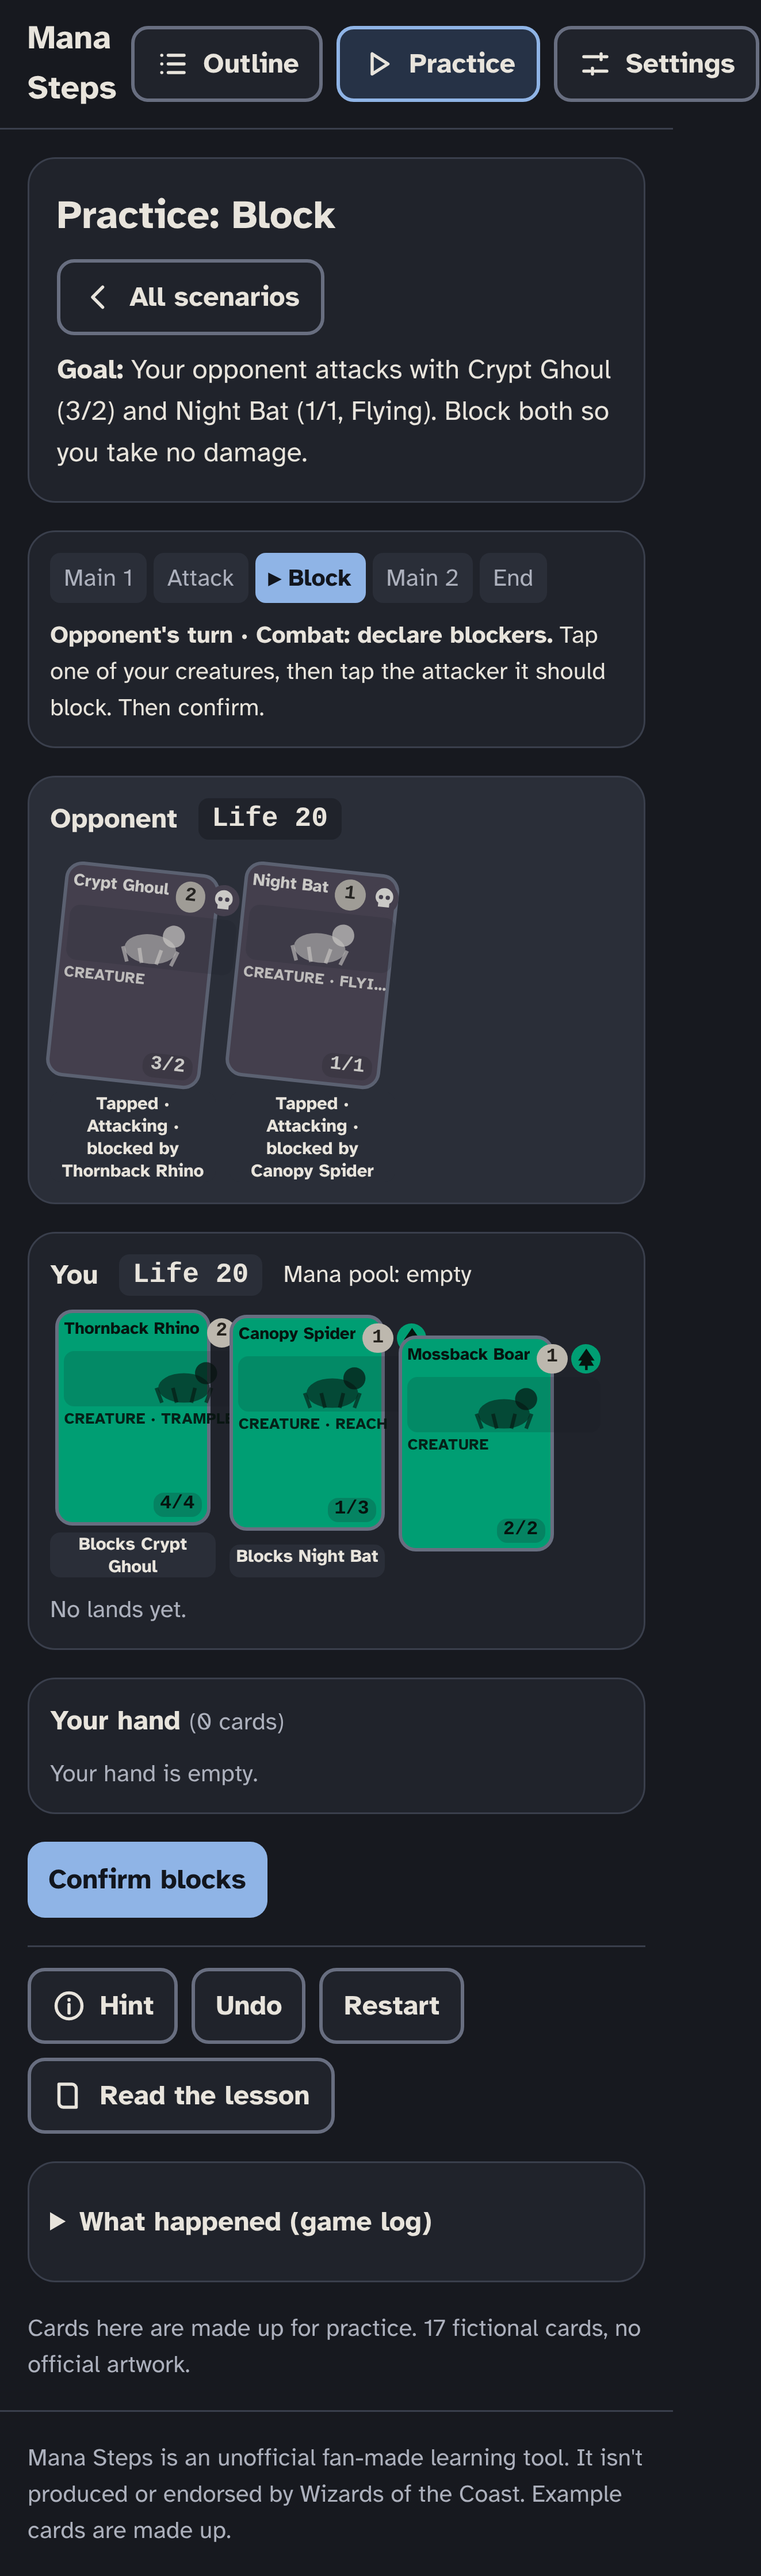
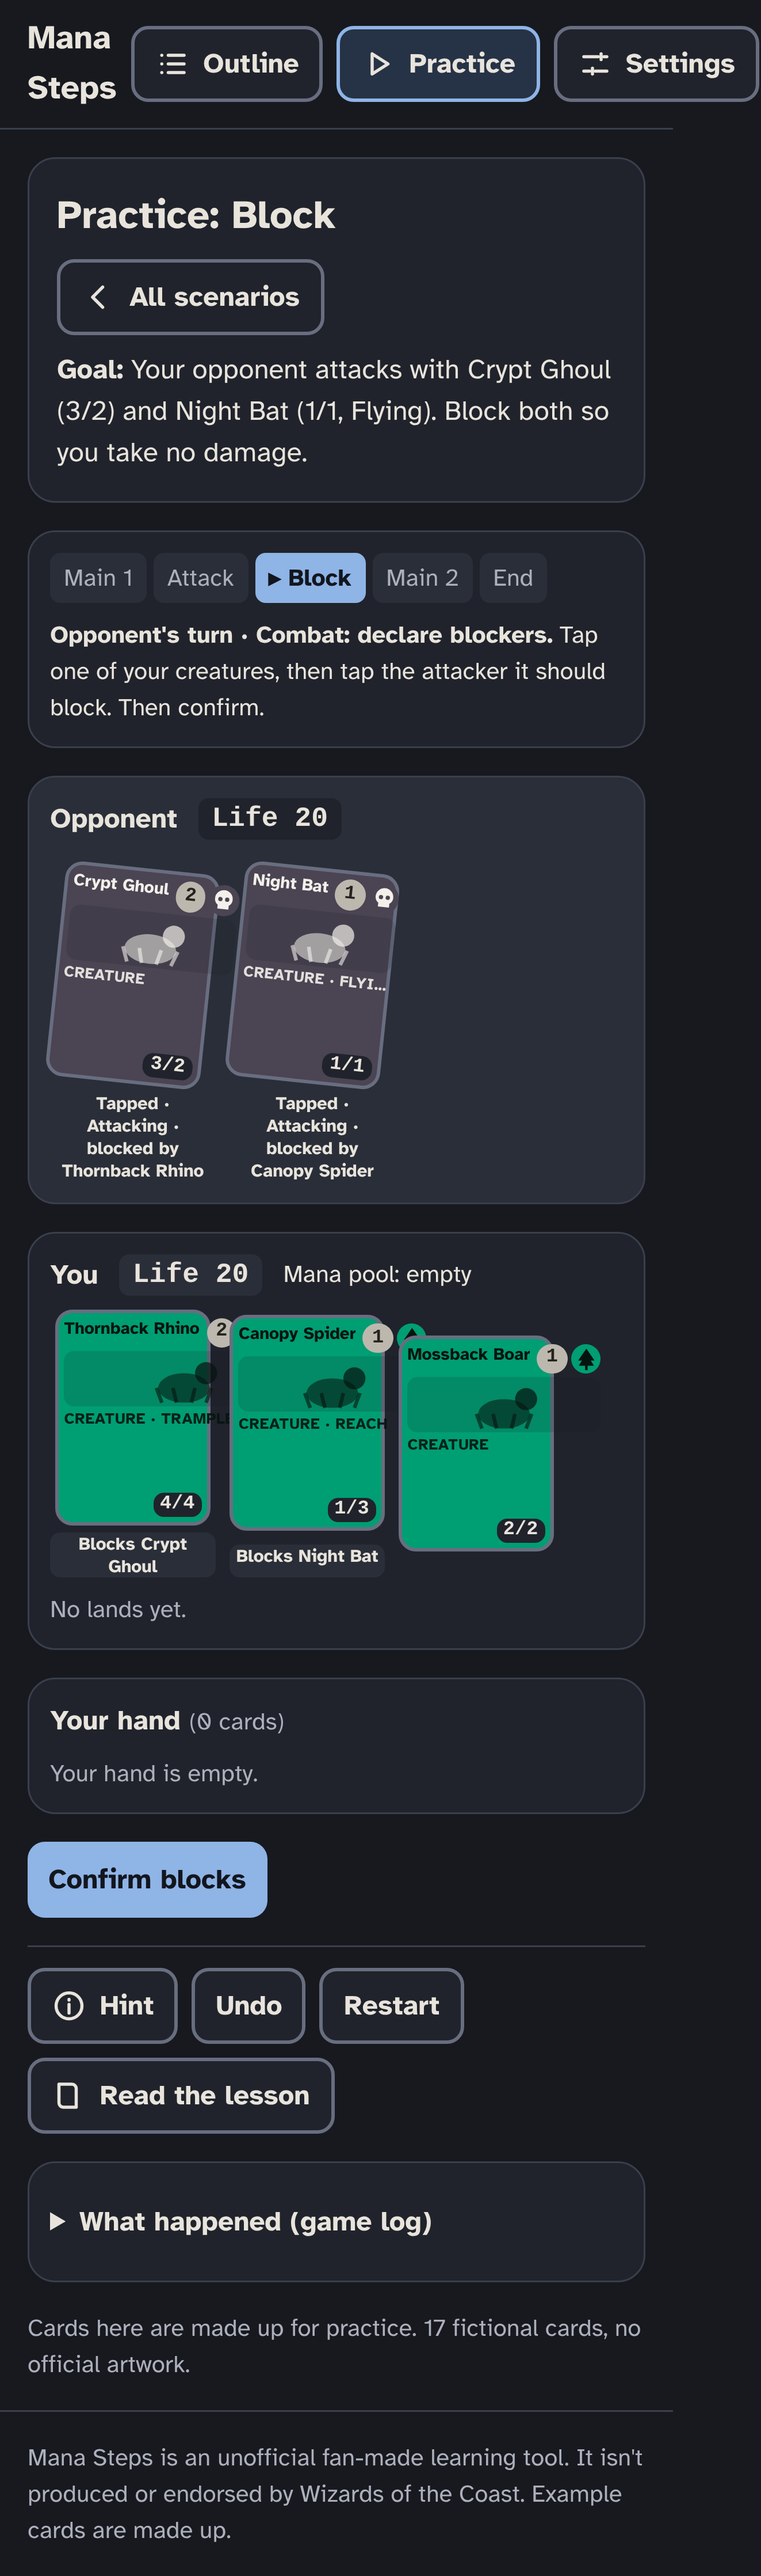
Phase 8: accessibility audit fixes; drop read-aloud and shortcut mentions
axe-core now reports 0 violations across every screen in both themes:
a level-one heading, a text placeholder instead of a figure with an
image role, solid high-contrast badges on practice cards, and card
names built from their visible text. Practice cards stay focusable
after every action, so keyboard focus never jumps; a card with nothing
to do explains why. Removes the planned text-to-speech feature and the
keyboard shortcuts list to keep the phone app simple.

Claude-Session: https://claude.ai/code/session_01E8vsGZ5aPyfFG5iLHfzsRM

diff --git a/src/features/practice/PracticeTable.tsx b/src/features/practice/PracticeTable.tsx
@@ -73,6 +73,21 @@ export const PracticeTable = forwardRef<HTMLHeadingElement, Props>(function Prac
     }
     return null;
   };
+  // A card with nothing to do right now still answers a tap, so focus never jumps and every tap gets feedback.
+  const explain = (p: Permanent): { label: string; action: () => void } => {
+    const card = def(p.card);
+    const say = (text: string) => () => setCoach({ kind: "hint", text });
+    if (p.owner === "you" && card.kind === "land") return { label: p.tapped ? "Already tapped" : "Tap for mana", action: () => act({ type: "tapForMana", uid: p.uid }) };
+    if (p.owner === "you") return { label: "About this card", action: say(state.step === "blockers" && myTurn ? `${card.name} is attacking. Continue to see the damage.` : `${card.name} acts in combat: go to combat to attack with it, or block with it when your opponent attacks.`) };
+    if (targeting) return { label: "About this card", action: say(`${targeting.name} can't target ${card.name}: it isn't a creature.`) };
+    return { label: "About this card", action: say(`${card.name} belongs to your opponent. You can block it when it attacks, or target it with a spell like Spark Jolt.`) };
+  };
+  const tapOf = (p: Permanent): { label: string; onClick: () => void } => {
+    const a = permAction(p);
+    if (a) return { label: a.label, onClick: () => act(a.action) };
+    const e = explain(p);
+    return { label: e.label, onClick: e.action };
+  };
   const blockerOf = (attackerUid: string) => { const b = state.attackers[attackerUid]; return b ? def(state.battlefield.find((p) => p.uid === b)?.card ?? "").name : null; };
   const permBadge = (p: Permanent): string | undefined => {
     if (state.attackers[p.uid] !== undefined && (state.step === "blockers" || state.step === "damage")) { const b = blockerOf(p.uid); return b ? `Attacking · blocked by ${b}` : "Attacking"; }
@@ -143,10 +158,10 @@ export const PracticeTable = forwardRef<HTMLHeadingElement, Props>(function Prac
         <p className="flex items-center gap-s3 font-bold">Opponent <span className="rounded-sm bg-surface px-s2 font-mono">Life {state.opp.life}</span>
           {targeting?.effect === "damage3" && <button type="button" onClick={() => act({ type: "chooseTarget", target: { kind: "player", player: "opp" } })} className={`${secondary} ml-auto`}>Target opponent</button>}
         </p>
-        <div className="flex flex-wrap gap-s2">{lands(theirs).map((p) => <GameCard key={p.uid} card={def(p.card)} perm={p} size="sm" />)}</div>
+        <div className="flex flex-wrap gap-s2">{lands(theirs).map((p) => { const t = tapOf(p); return <GameCard key={p.uid} card={def(p.card)} perm={p} size="sm" action={t.label} onClick={t.onClick} />; })}</div>
         <div className="flex flex-wrap gap-s2">
           {creatures(theirs).length === 0 && <p className="text-sm text-text-muted">No creatures.</p>}
-          {creatures(theirs).map((p) => { const a = permAction(p); return <GameCard key={p.uid} card={def(p.card)} perm={p} badge={permBadge(p)} action={a?.label} onClick={a ? () => act(a.action) : undefined} />; })}
+          {creatures(theirs).map((p) => { const t = tapOf(p); return <GameCard key={p.uid} card={def(p.card)} perm={p} badge={permBadge(p)} action={t.label} onClick={t.onClick} />; })}
         </div>
       </div>
 
@@ -173,11 +188,11 @@ export const PracticeTable = forwardRef<HTMLHeadingElement, Props>(function Prac
         </p>
         <div className="flex flex-wrap gap-s2">
           {creatures(mine).length === 0 && <p className="text-sm text-text-muted">No creatures on the battlefield.</p>}
-          {creatures(mine).map((p) => { const a = permAction(p); return <GameCard key={p.uid} card={def(p.card)} perm={p} badge={permBadge(p)} selected={state.selectedAttackers.includes(p.uid) || state.pendingBlocker === p.uid} action={a?.label} onClick={a ? () => act(a.action) : undefined} />; })}
+          {creatures(mine).map((p) => { const t = tapOf(p); return <GameCard key={p.uid} card={def(p.card)} perm={p} badge={permBadge(p)} selected={state.selectedAttackers.includes(p.uid) || state.pendingBlocker === p.uid} action={t.label} onClick={t.onClick} />; })}
         </div>
         <div className="flex flex-wrap gap-s2">
           {lands(mine).length === 0 && <p className="text-sm text-text-muted">No lands yet.</p>}
-          {lands(mine).map((p) => { const a = permAction(p); return <GameCard key={p.uid} card={def(p.card)} perm={p} size="sm" action={a?.label} onClick={a ? () => act(a.action) : undefined} />; })}
+          {lands(mine).map((p) => { const t = tapOf(p); return <GameCard key={p.uid} card={def(p.card)} perm={p} size="sm" action={t.label} onClick={t.onClick} />; })}
         </div>
       </div>
 

diff --git a/src/features/practice/GameCard.tsx b/src/features/practice/GameCard.tsx
@@ -92,12 +92,14 @@ interface Props {
 export function GameCard({ card, perm, action, selected, badge, onClick, size = "md" }: Props) {
   const tapped = perm?.tapped ?? false;
   const w = size === "sm" ? "w-[4.6rem]" : "w-[5.6rem]";
-  const label = `${describeCard(card, perm)}${action ? `. ${action}` : ""}`;
+  // Screen readers get the visible card text plus this hidden detail; the name always contains the visible text.
+  const detail = describeCard(card, perm).replace(`${card.name}, `, "");
+  const srDetail = `, ${detail}${action ? `. ${action}` : ""}`;
   const body = (
     <span
       className={`relative grid ${w} aspect-[5/7] content-start gap-[2px] rounded-md border-2 p-[3px] text-left text-[0.62rem] leading-tight ${FRAME[card.color]} ${
         selected ? "border-focus ring-[3px] ring-focus" : "border-border-strong"
-      } ${tapped ? "rotate-6 opacity-80" : ""}`}
+      } ${tapped ? "rotate-6" : ""}`}
     >
       <span className="flex items-start justify-between gap-1 font-bold">
         <span className="truncate">{card.name}</span>
@@ -107,21 +109,22 @@ export function GameCard({ card, perm, action, selected, badge, onClick, size = 
       <span className="truncate text-[0.56rem] font-bold uppercase tracking-wide opacity-90">{card.kind}{card.keywords?.length ? ` · ${card.keywords.join(", ")}` : ""}</span>
       {card.kind === "instant" && <span className="line-clamp-3 opacity-90">{card.text}</span>}
       {card.kind === "creature" && (
-        <span className="absolute bottom-[3px] right-[3px] rounded-sm bg-bg/20 px-1 font-mono text-[0.7rem] font-bold">
+        <span className="absolute bottom-[3px] right-[3px] rounded-sm bg-surface px-1 font-mono text-[0.7rem] font-bold text-text">
           {perm ? power(perm) : card.power}/{perm ? toughness(perm) : card.toughness}
         </span>
       )}
-      {perm && perm.damage > 0 && <span className="absolute bottom-[3px] left-[3px] rounded-sm bg-bg/20 px-1 font-mono text-[0.6rem] font-bold">-{perm.damage}</span>}
+      {perm && perm.damage > 0 && <span className="absolute bottom-[3px] left-[3px] rounded-sm bg-surface px-1 font-mono text-[0.6rem] font-bold text-text">-{perm.damage}</span>}
     </span>
   );
   return (
     <span className="grid justify-items-center gap-1">
       {onClick ? (
-        <button type="button" onClick={onClick} aria-label={label} aria-pressed={selected} className="rounded-md">
+        <button type="button" onClick={onClick} aria-pressed={selected} className="rounded-md">
           {body}
+          <span className="sr-only">{srDetail}</span>
         </button>
       ) : (
-        <span role="img" aria-label={label}>{body}</span>
+        <span>{body}<span className="sr-only">{srDetail}</span></span>
       )}
       {(badge || tapped) && (
         <span className="max-w-[6rem] rounded-sm bg-surface-2 px-1 text-center text-[0.65rem] font-bold leading-tight">{[tapped ? "Tapped" : null, badge].filter(Boolean).join(" · ")}</span>

diff --git a/src/features/shell/SettingsPanel.tsx b/src/features/shell/SettingsPanel.tsx
@@ -4,13 +4,6 @@ import { Icon } from "../../components/Icon";
 import { SettingsControls } from "../../components/SettingsControls";
 import { useSettings } from "../../theme/SettingsContext";
 
-export const SHORTCUTS: readonly { keys: string; action: string; note?: string }[] = [
-  { keys: "← Left arrow", action: "Back one step" },
-  { keys: "→ Right arrow", action: "Next step" },
-  { keys: "F", action: "Turn Focus Mode on or off" },
-  { keys: "R", action: "Read the step aloud", note: "arrives in a later update" },
-];
-
 export const SettingsPanel = forwardRef<HTMLHeadingElement, { onClose: () => void }>(function SettingsPanel({ onClose }, headingRef) {
   const { settings, dispatch } = useSettings();
   return (
@@ -25,7 +18,7 @@ export const SettingsPanel = forwardRef<HTMLHeadingElement, { onClose: () => voi
       <div className="flex items-start justify-between gap-s4 rounded-md bg-surface-2 p-s4">
         <div>
           <span className="font-bold">Focus Mode</span>
-          <p className="text-sm text-text-muted">Hides the outline and footer. Shows only the step and the buttons. Shortcut: F.</p>
+          <p className="text-sm text-text-muted">Hides the outline and footer. Shows only the step and the buttons.</p>
         </div>
         <button
           type="button"
@@ -43,18 +36,6 @@ export const SettingsPanel = forwardRef<HTMLHeadingElement, { onClose: () => voi
 
       <SettingsControls />
 
-      <section aria-labelledby="shortcuts-heading" className="grid gap-s3">
-        <h3 id="shortcuts-heading" className="text-lg font-bold">Keyboard shortcuts (with a keyboard connected)</h3>
-        <p className="text-sm text-text-muted">Useful with a Bluetooth keyboard or switch control. They don't work while you're choosing an answer or typing, so they never get in the way.</p>
-        <dl className="grid gap-s2">
-          {SHORTCUTS.map((s) => (
-            <div key={s.keys} className="flex flex-wrap gap-s3">
-              <dt><kbd className="rounded-sm border border-border-strong bg-surface-2 px-s2 font-mono">{s.keys}</kbd></dt>
-              <dd>{s.action}{s.note && <span className="text-text-muted"> ({s.note})</span>}</dd>
-            </div>
-          ))}
-        </dl>
-      </section>
     </section>
   );
 });

diff --git a/src/features/shell/useShortcuts.ts b/src/features/shell/useShortcuts.ts
@@ -4,7 +4,6 @@ export interface ShortcutHandlers {
   back: () => void;
   next: () => void;
   focus: () => void;
-  read?: () => void;
 }
 
 /** True when a key press belongs to a control (typing, choosing a radio option, a select…). */
@@ -14,7 +13,7 @@ function isInteractiveTarget(target: EventTarget | null): boolean {
   return ["INPUT", "TEXTAREA", "SELECT"].includes(target.tagName);
 }
 
-/** ← Back, → Next, F Focus Mode, R Read aloud. Ignored while the learner is using a form control. */
+/** ← Back, → Next, F Focus Mode (for anyone with a keyboard attached). Ignored while using a form control. */
 export function useShortcuts(handlers: ShortcutHandlers): void {
   const ref = useRef(handlers);
   ref.current = handlers;
@@ -25,7 +24,6 @@ export function useShortcuts(handlers: ShortcutHandlers): void {
       if (e.key === "ArrowLeft") { e.preventDefault(); h.back(); }
       else if (e.key === "ArrowRight") { e.preventDefault(); h.next(); }
       else if (e.key === "f" || e.key === "F") { e.preventDefault(); h.focus(); }
-      else if ((e.key === "r" || e.key === "R") && h.read) { e.preventDefault(); h.read(); }
     };
     window.addEventListener("keydown", onKey);
     return () => window.removeEventListener("keydown", onKey);

diff --git a/src/features/lesson/Visual.tsx b/src/features/lesson/Visual.tsx
@@ -7,15 +7,10 @@ export function Visual({ visual }: { visual: VisualData }) {
     return <img src={visual.src} alt={visual.altText} className="max-w-full rounded-md border border-border" />;
   }
   return (
-    <figure
-      role="img"
-      aria-label={visual.altText}
-      className="grid min-h-[8rem] content-center rounded-md border-2 border-dashed border-border-strong bg-surface-2 p-s4"
-    >
-      <figcaption className="grid gap-s1 text-text-muted">
-        <span className="text-sm font-bold">Picture coming soon</span>
-        <span>{visual.type === "placeholder" ? visual.src : visual.altText}</span>
-      </figcaption>
-    </figure>
+    // The placeholder is text, so it's read as text (no image role needed).
+    <div className="grid min-h-[8rem] content-center gap-s1 rounded-md border-2 border-dashed border-border-strong bg-surface-2 p-s4 text-text-muted">
+      <p className="text-sm font-bold">Picture coming soon</p>
+      <p>{visual.type === "placeholder" ? visual.src : visual.altText}</p>
+    </div>
   );
 }

diff --git a/src/features/shell/AppShell.tsx b/src/features/shell/AppShell.tsx
@@ -122,7 +122,7 @@ export function AppShell() {
 
       <header data-focus-hide className="border-b border-border pt-[env(safe-area-inset-top)]">
         <div className="mx-auto flex max-w-[64rem] items-center gap-s2 py-s2 [@media(max-height:500px)]:py-s1 pl-[max(1rem,env(safe-area-inset-left))] pr-[max(1rem,env(safe-area-inset-right))]">
-          <p className="mr-auto text-lg font-bold">Mana Steps</p>
+          <h1 className="mr-auto text-lg font-bold">Mana Steps</h1>
           <button type="button" onClick={() => toggleView("outline")} aria-pressed={view === "outline"}
             className={`${topButton} lg:hidden ${view === "outline" ? "border-accent bg-accent-soft" : "border-border-strong bg-surface"}`}>
             <Icon name="list" /> Outline

diff --git a/src/content/schema.ts b/src/content/schema.ts
@@ -67,8 +67,6 @@ export const StepSchema = z
     title: NonEmpty,
     body: NonEmpty,
     visual: VisualSchema,
-    /** Optional. Read-aloud text; defaults to the body's plain text. */
-    ttsText: NonEmpty.optional(),
     glossaryTerms: z.array(Id).default([]),
     /** At least one Comprehensive Rules reference, shown as a small footnote. */
     ruleRefs: z.array(RuleRef).min(1, "Every step needs at least one rule reference"),

diff --git a/README.md b/README.md
@@ -72,6 +72,13 @@ legacy/                    The earlier single-file prototype (Planeswalker Quest
 - All sizes are in rem, so the 4 text-size steps scale the whole UI.
 - Animations are off by default. Turning them on still respects `prefers-reduced-motion`.
 
+## Accessibility checks
+
+- `npm test` covers the settings, content, navigation, progress, engine and scenario logic (59 tests).
+- The axe-core audit and phone walkthroughs were run with Playwright against the production build
+  (iPhone 13 and Pixel 5 emulation, dark and light). Repeat them before a release.
+- Everything works by tap or keyboard alone. Focus never jumps after an action; every control is at least 44px.
+
 ## Accessibility rules baked into the tokens
 
 - No pure black on pure white. Every text pair meets WCAG 2.2 AA (ratios are noted in `tokens.css`).
@@ -87,5 +94,5 @@ legacy/                    The earlier single-file prototype (Planeswalker Quest
 4. ✅ Progress engine: save/resume, checklist, progress bar
 5. ✅ Full MTG curriculum (10 modules, 46 steps)
 6. ✅ Practice Table mini-game (pure reducer + Vitest, 5 guided scenarios with hints and Undo)
-7. Text-to-speech (Web Speech API)
-8. Accessibility audit (axe-core + keyboard walkthrough)
+7. Text-to-speech: skipped on purpose (no voice, keep it simple)
+8. ✅ Accessibility audit: axe-core (WCAG 2.2 AA + best practice) reports 0 violations on every screen in both themes; keyboard and screen-reader walkthrough done

diff --git a/src/content/README.md b/src/content/README.md
@@ -28,7 +28,6 @@ No code changes are needed.
 | `id`, `title` | kebab-case id, unique within the module |
 | `body` | markdown subset, **max 120 words** (counted as the learner reads it) |
 | `visual` | `{ type: "svg" \| "image" \| "placeholder", src, altText }`. `altText` is required |
-| `ttsText` | optional; read-aloud uses the body's plain text if it's missing |
 | `glossaryTerms[]` | every `[[term]]` in the body must be listed here **and** exist in `glossary.json` |
 | `ruleRefs[]` | at least one, formatted like `"CR 500.1"` or `"CR 104.3b"` |
 | `tryIt` | optional interaction id (interactions arrive in later phases) |
